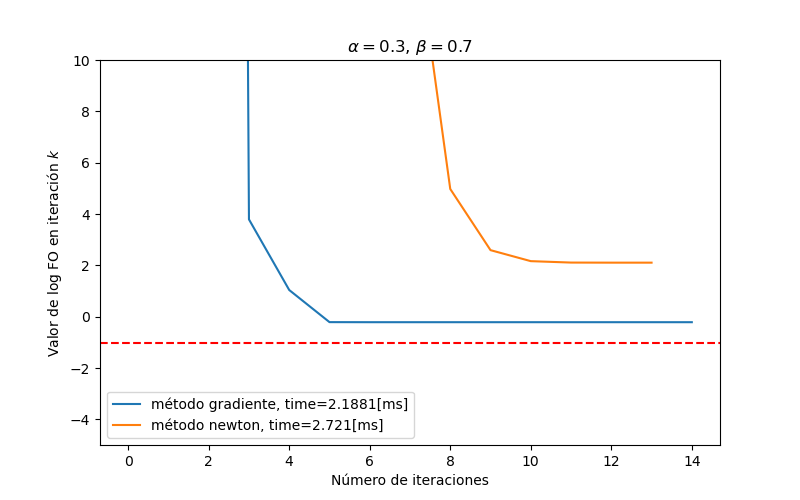
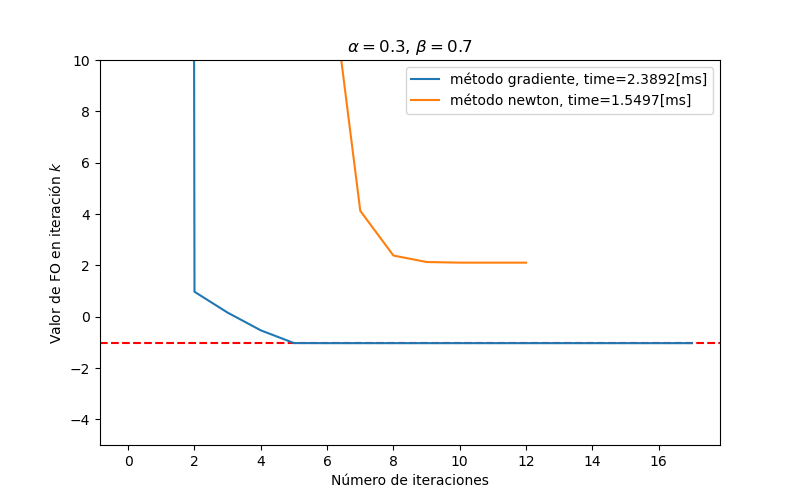
fix y_label

diff --git a/tarea.py b/tarea.py
@@ -112,8 +112,7 @@ for i, point in enumerate(random_points):
     label=rf'método newton, time={results_newton.total_time/1e6}[ms]'
   )
   ax1.set_xlabel("Número de iteraciones")
-  #ax1.set_ylabel("Valor de FO en iteración $k$")
-  ax1.set_ylabel("Valor de log FO en iteración $k$")
+  ax1.set_ylabel("Valor de FO en iteración $k$")
   ax1.set_title(rf'$\alpha = {alpha}$, $\beta = {beta}$')
   ax1.legend(loc="best")
 
